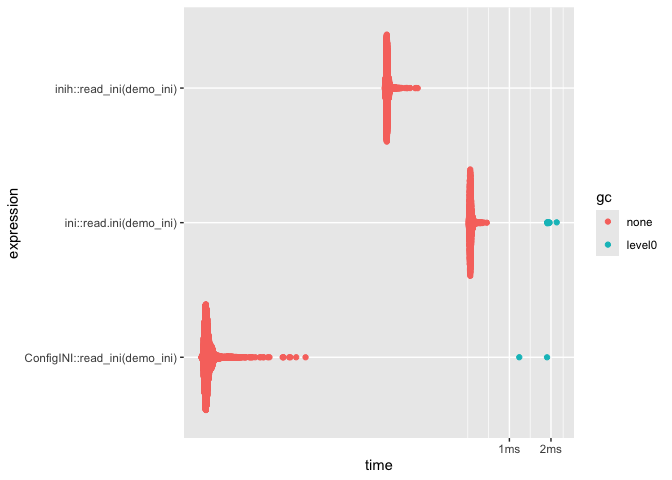
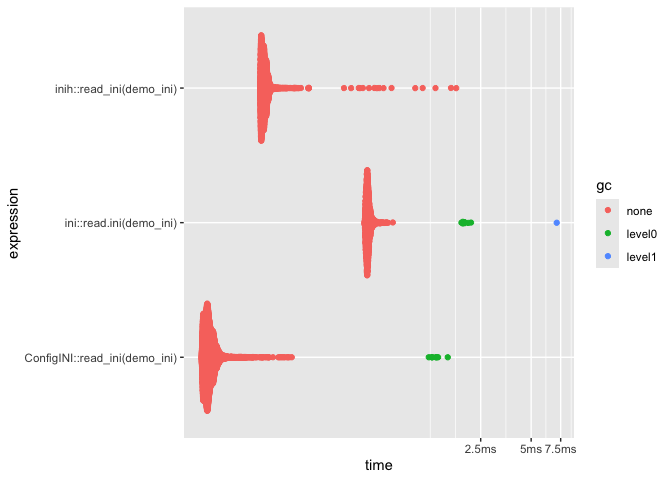
remove caching as mtime doesn't work on windows os

diff --git a/README.md b/README.md
@@ -186,9 +186,9 @@ demo_ini <- system.file("demo.ini", package = "ConfigINI")
 #> # A tibble: 3 × 6
 #>   expression                         min   median `itr/sec` mem_alloc `gc/sec`
 #>   <bch:expr>                    <bch:tm> <bch:tm>     <dbl> <bch:byt>    <dbl>
-#> 1 ConfigINI::read_ini(demo_ini)    5.9µs   6.44µs   150570.        0B     30.1
-#> 2 inih::read_ini(demo_ini)       125.5µs 130.22µs     7625.    14.3KB      0  
-#> 3 ini::read.ini(demo_ini)        507.1µs 522.18µs     1901.    4.22KB     18.6
+#> 1 ConfigINI::read_ini(demo_ini)     54µs   59.4µs    16434.        0B     18.5
+#> 2 inih::read_ini(demo_ini)         121µs  127.3µs     7601.    14.3KB      0  
+#> 3 ini::read.ini(demo_ini)          506µs    529µs     1872.    4.22KB     18.9
 
 # Relative to the fastest time
 summary_cols <- c("min", "median", "itr/sec", "mem_alloc", "gc/sec")
@@ -197,9 +197,9 @@ bm
 #> # A tibble: 3 × 6
 #>   expression                      min median `itr/sec` mem_alloc `gc/sec`
 #>   <bch:expr>                    <dbl>  <dbl>     <dbl>     <dbl>    <dbl>
-#> 1 ConfigINI::read_ini(demo_ini)   1      1       79.2        NaN      Inf
-#> 2 inih::read_ini(demo_ini)       21.3   20.2      4.01       Inf      NaN
-#> 3 ini::read.ini(demo_ini)        85.9   81.1      1          Inf      Inf
+#> 1 ConfigINI::read_ini(demo_ini)  1      1         8.78       NaN      Inf
+#> 2 inih::read_ini(demo_ini)       2.24   2.14      4.06       Inf      NaN
+#> 3 ini::read.ini(demo_ini)        9.38   8.91      1          Inf      Inf
 ```
 
     #> Loading required namespace: tidyr
